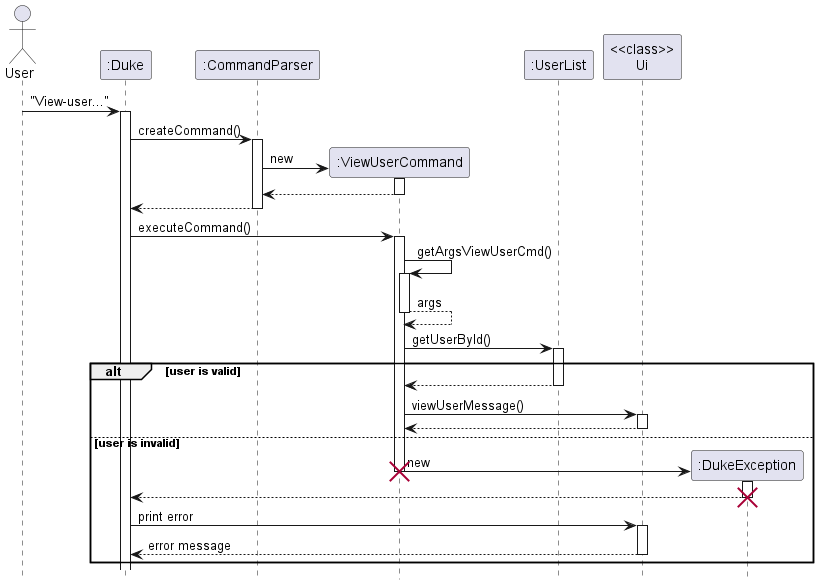
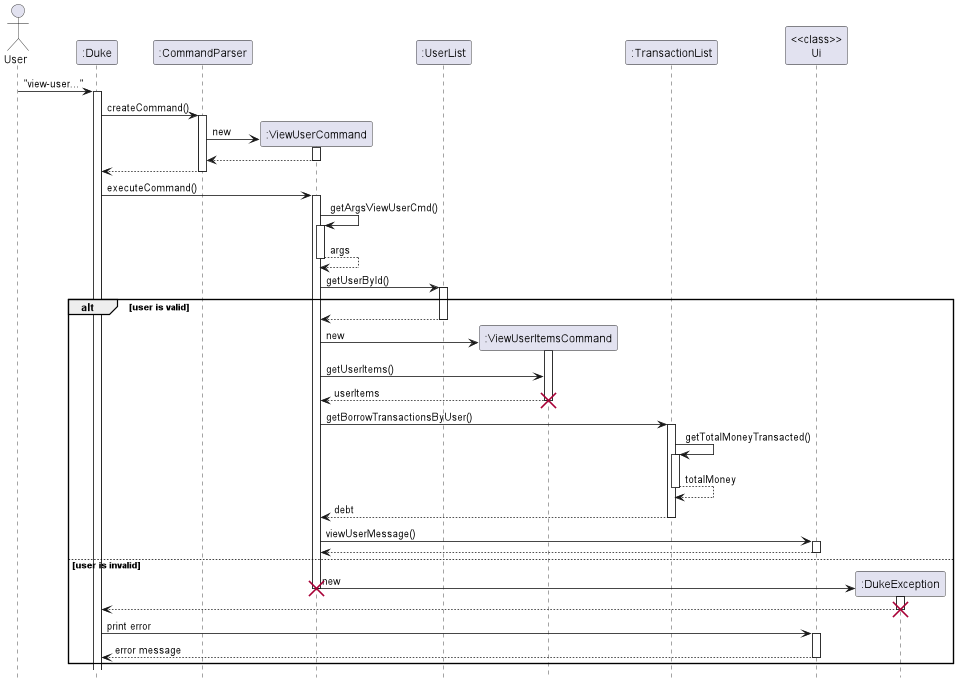
updated DG and UG for view-user and view-user-items command

Changed region(s): [[0.0, 0.0, 1.0, 0.9846], [0.641, 0.0308, 0.8852, 0.1538], [0.4274, 0.0308, 0.5189, 0.1231]]

diff --git a/src/main/java/seedu/duke/command/user/ViewUserItemsCommand.java b/src/main/java/seedu/duke/command/user/ViewUserItemsCommand.java
@@ -31,7 +31,7 @@ public class ViewUserItemsCommand extends Command {
         }
     }
 
-    private String getArgFindUserItemsCmd() throws InvalidArgumentException {
+    private String getArgViewUserItemsCmd() throws InvalidArgumentException {
         String args;
         String delimiter = CommandParser.getArgsDelimiter(parts[0]);
         if (delimiter.equals("u")) {
@@ -52,7 +52,7 @@ public class ViewUserItemsCommand extends Command {
     }
 
     protected ItemList getUserItems() throws UserNotFoundException, InvalidArgumentException {
-        String args = getArgFindUserItemsCmd();
+        String args = getArgViewUserItemsCmd();
         ItemList userItems = new ItemList();
         if (isValidUser(args)) {
             for (Item item : itemList.getItemList()) {

diff --git a/docs/UserGuide.md b/docs/UserGuide.md
@@ -94,6 +94,7 @@ List all transactions: list-tx
 VIEW-RELATED-COMMANDS: 
 --------------------
 View a user: view-user /u <userName>
+View a user's items: view-user-items /u <userName>
 View a item: view-item /i <itemId>
 View a transaction: view-tx /t <transactionId>
 
@@ -172,7 +173,7 @@ ____________________________________________________________
 ```
 
 #### 3.2.4. ```view-user``` - View a user
->View the details of a user in the list
+>View the details of a user in the list including the user's items and debt
 
 Format: ```view-user /u [USERNAME]```
 
@@ -186,10 +187,31 @@ Expected outcome:
 ____________________________________________________________
 Here is the user you have requested to view: 
 Username: jingwei Age: 19 Contact: 22384729 
+The user's debt is $0.0
+Here are 2 item(s) in your list:
+   1. Status: [Available] ItemId: 895c7dd6 Item: scale Category: SPORTS_EQUIPMENT Owner: jingwei PricePerDay: $1.0
+   2. Status: [Available] ItemId: e084cd0a Item: battery Category: ELECTRICAL_APPLIANCES Owner: jingwei PricePerDay: $1.5
 ____________________________________________________________
 ```
 
-#### 3.2.4. ```find-user``` - Find users using keyword
+#### 3.2.5. ```view-user-items``` - View user's items
+>An extension to view-user command which shows a user's items only
+
+Format: `view-user-items /u [USERNAME]`
+
+Note:
+1. Username must be present in the user list
+
+Example of usage: `view-user-items /u jingwei`
+
+Expected outcome:
+```
+Here are 2 item(s) in your list:
+   1. Status: [Available] ItemId: 895c7dd6 Item: scale Category: SPORTS_EQUIPMENT Owner: jingwei PricePerDay: $1.0
+   2. Status: [Available] ItemId: e084cd0a Item: battery Category: ELECTRICAL_APPLIANCES Owner: jingwei PricePerDay: $1.5
+```
+
+#### 3.2.6. ```find-user``` - Find users using keyword
 >List all items that are associated with a given keyword
 
 Format: ```find-user /k [KEYWORD]```

diff --git a/docs/DeveloperGuide.md b/docs/DeveloperGuide.md
@@ -213,6 +213,23 @@ Step 4: After finding the user, a message will be displayed to the user via `Ui.
 The following sequence diagram shows how the view user operation works:
 ![viewUserSequence](images/ViewUserSequence.png)
 
+#### 4.1.5. View a user's items
+
+> This feature is an extension to view user feature. It allows the user to view a user's items and if the input is correct, a list of items will be sent from the Ui to user
+
+Given below is an example usage scenario and how the command mechanism behaves at each step.
+
+Step 1: The user types in the command in the command line. The CommandParser class checks ig the command is valid through the `createCommand()` method and either sends an exception or sent the input to ViewUserItemsCommand to be processed.
+
+Step 2: The ViewUserItemsCommand checks if the delimiters ('u') are present in the `getArgViewUserItemsCmd()`. The command checks whether the input's final argument is valid through `isValidUser()`. An exception will be thrown if the argument does not satisfy the requirements (user not found/does not exist).
+
+Step 3: If argument is valid, then `getUserItems()` will return a list of items whose owner's id equals to the argument.
+
+Step 4: The list of items wil then be displayed to the user via `Ui.printResponse()`.
+
+The following sequence diagram shows how the view-user-items operation works:
+![viewUserItemsSequence](images/ViewUserItemsSequence.png)
+
 **...To be updated(Find user, View user debt)**
 
 ### 4.2. Item-related Features
